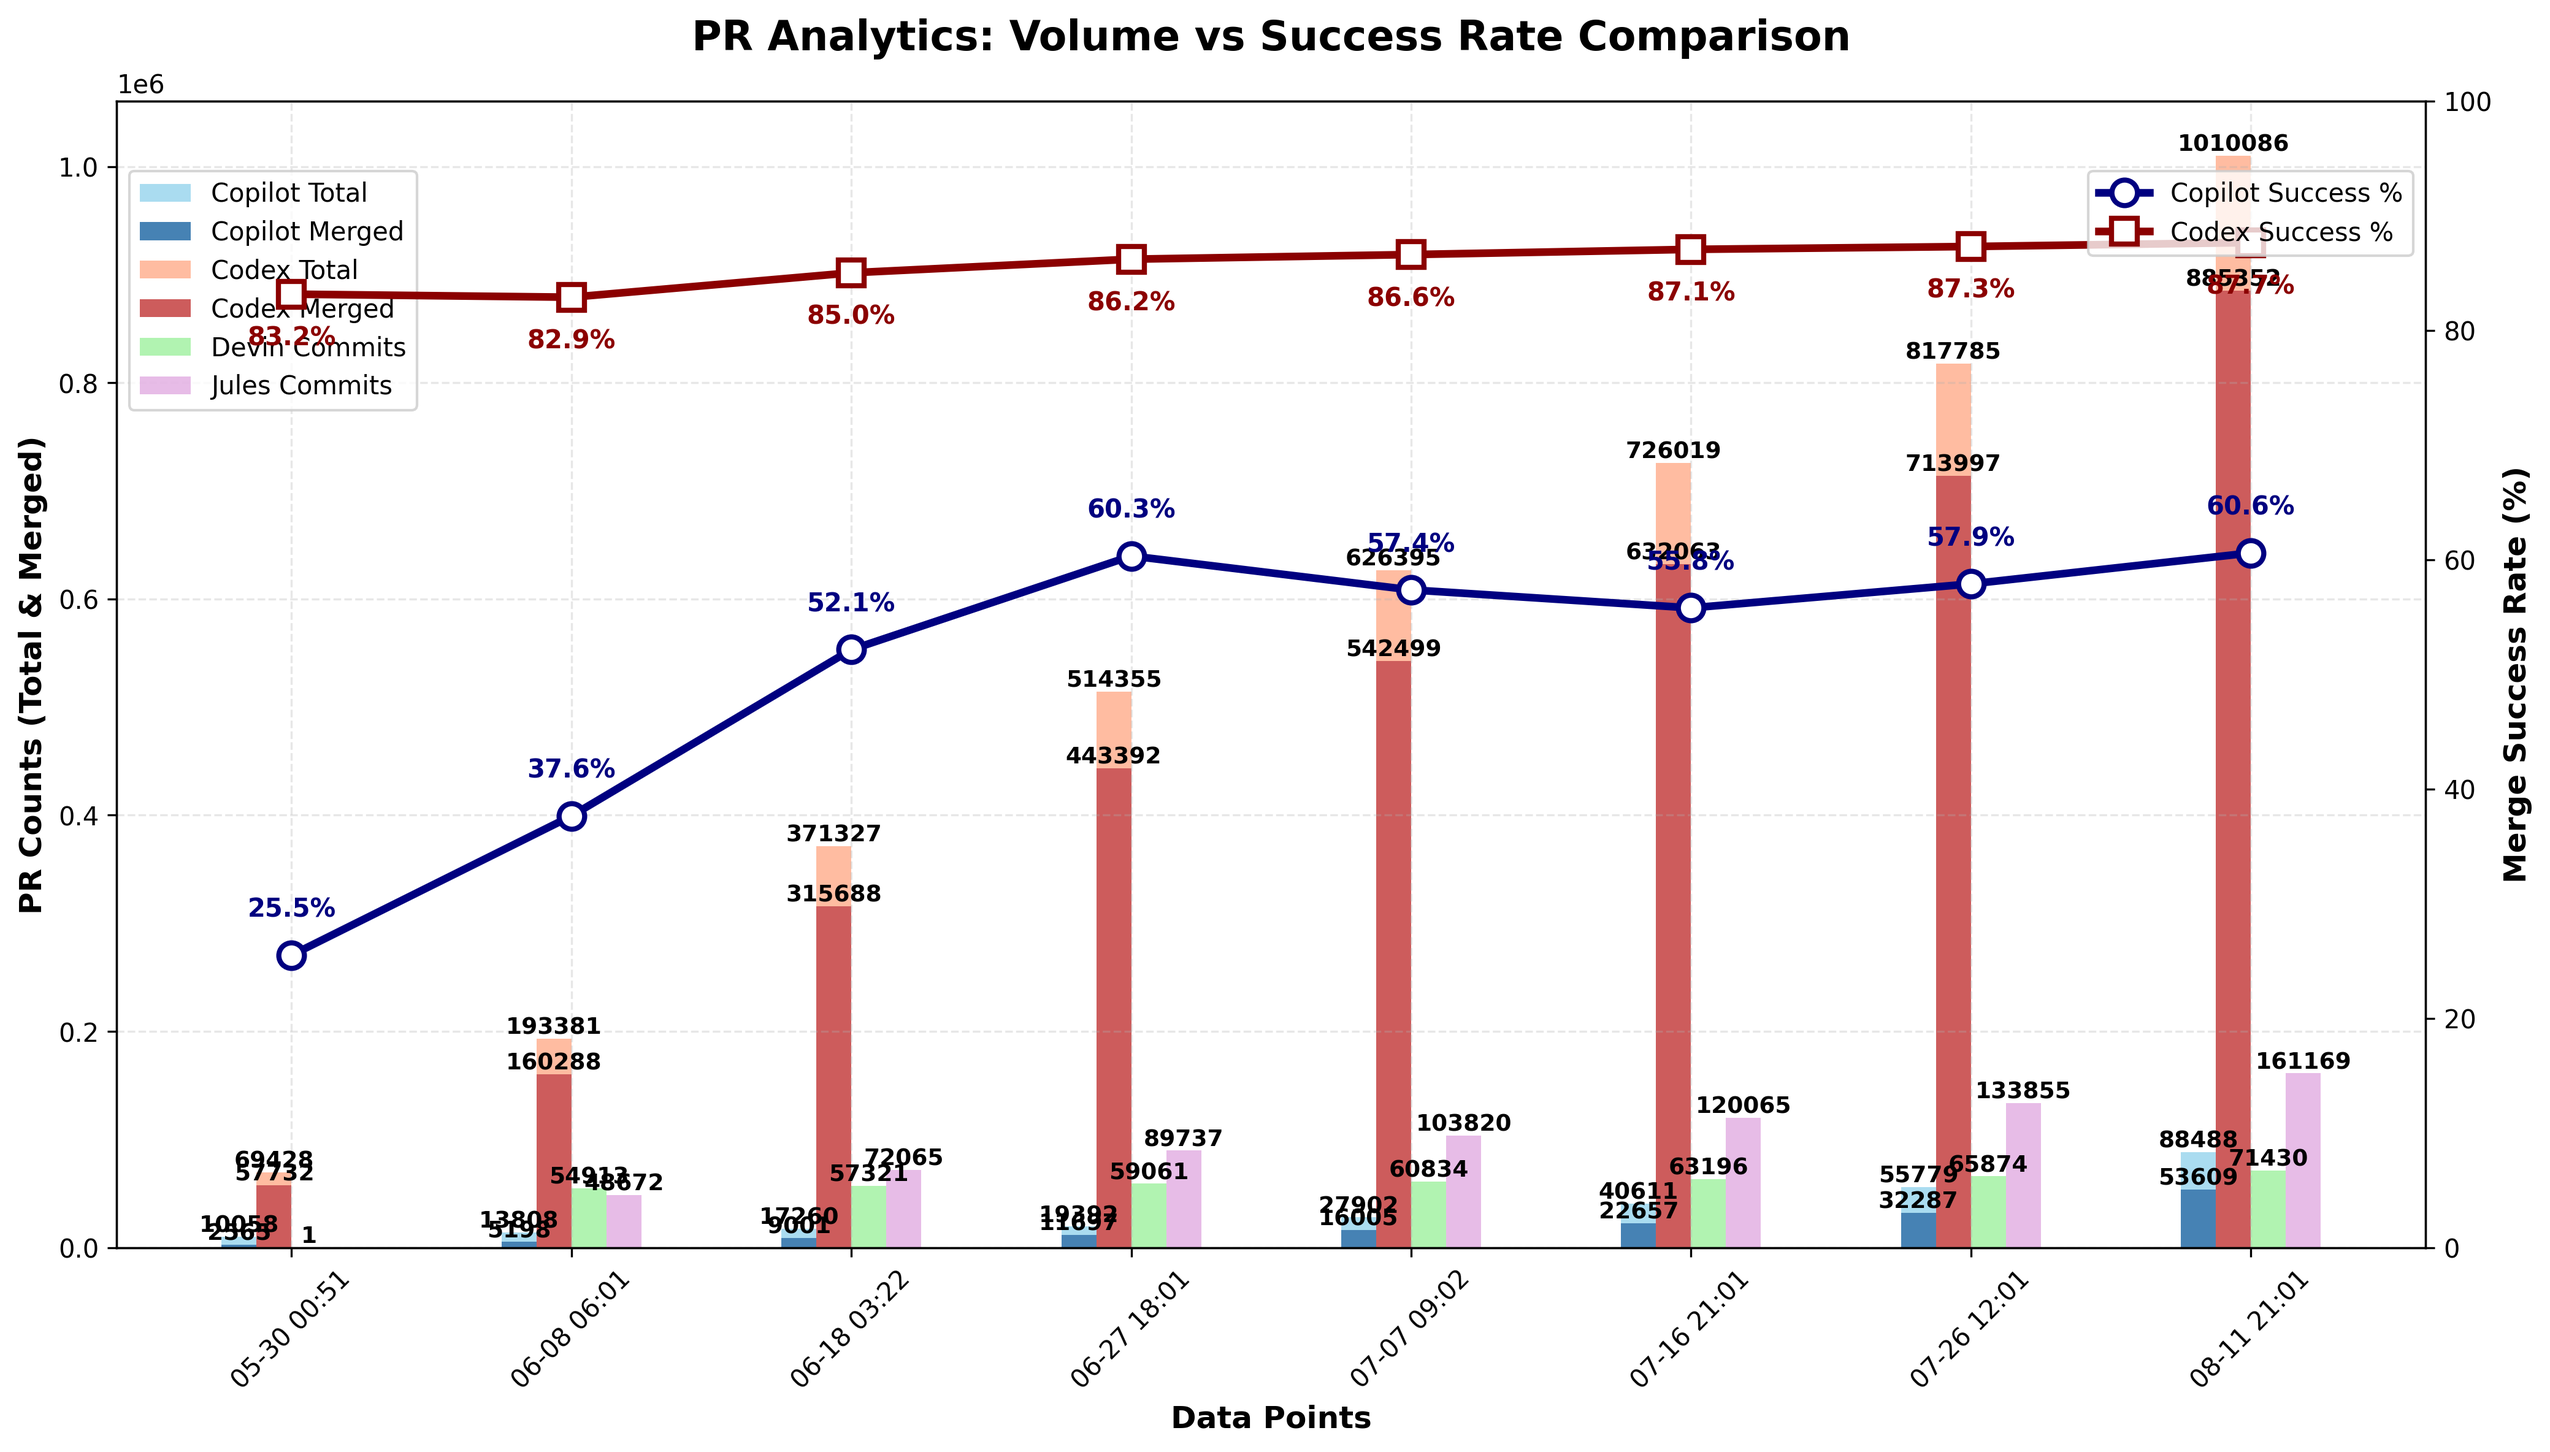
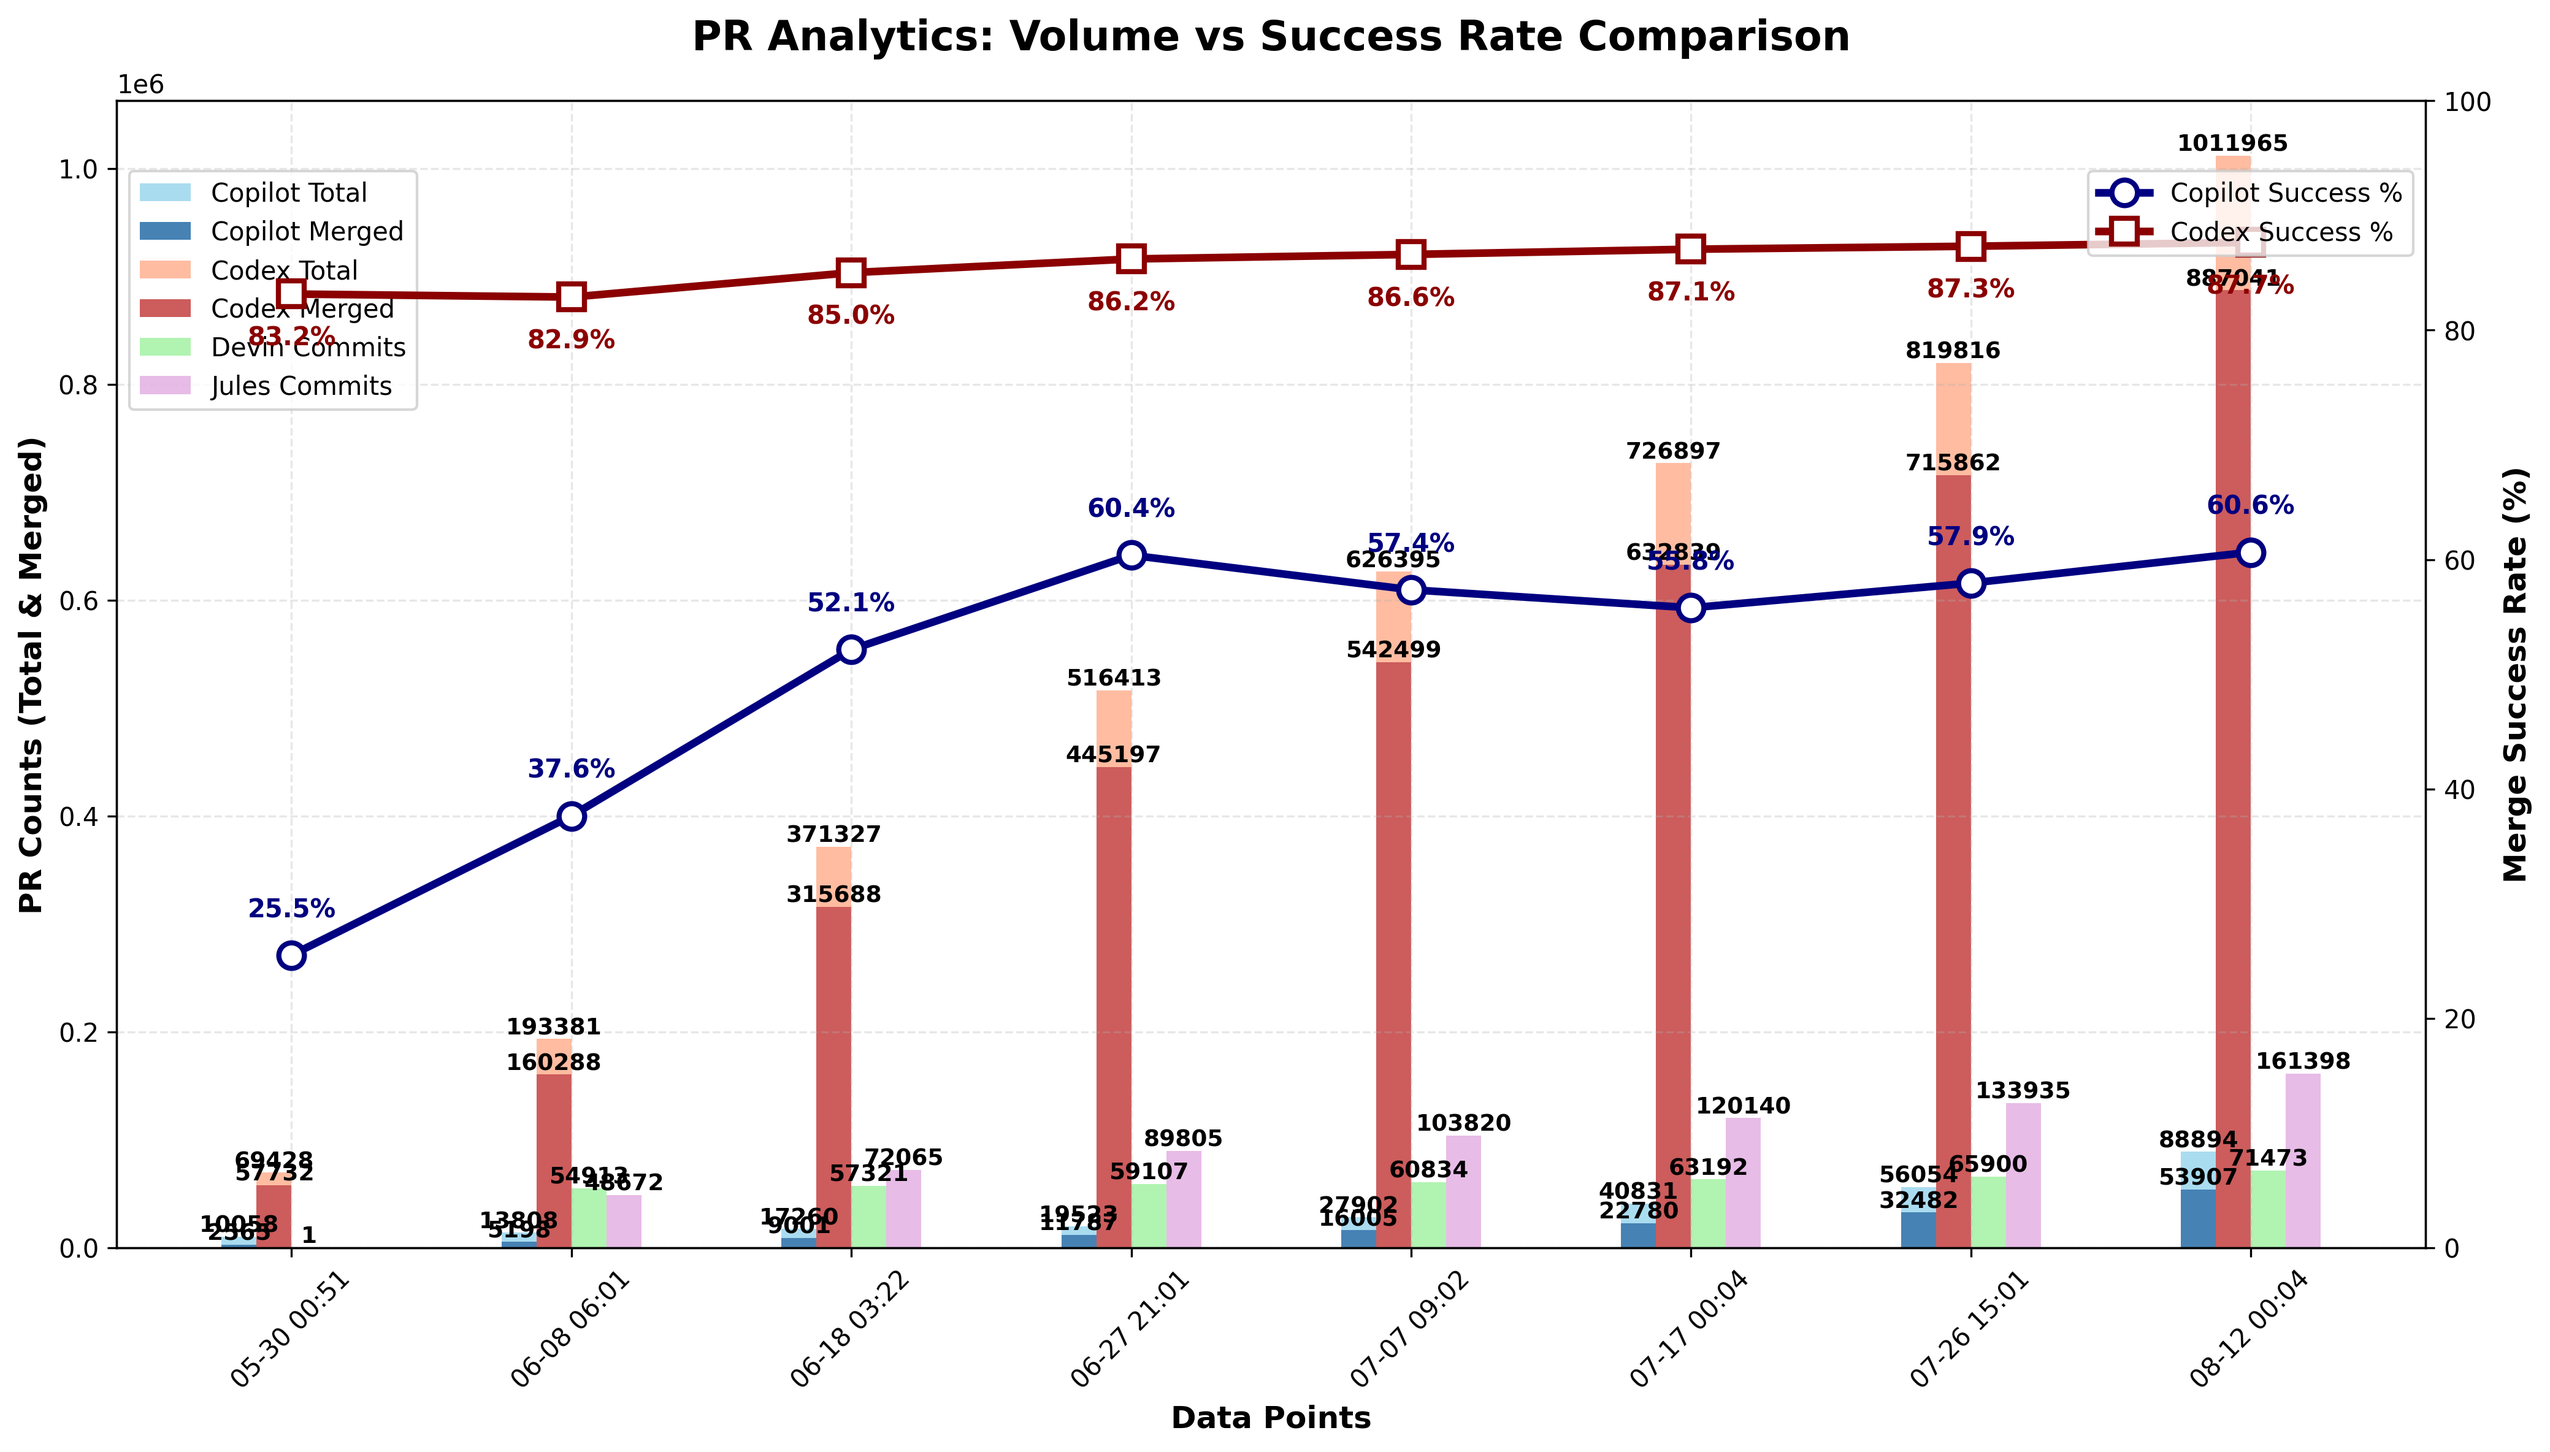
chore: update PR‑approval chart

diff --git a/docs/index.html b/docs/index.html
@@ -584,6 +584,7 @@
                         <td>N/A</td>
                         <td>N/A</td>
                         <td>N/A</td>
+                        <td>N/A</td>
                     </tr>
                     <tr>
                         <td>Codex</td>
@@ -1126,27 +1127,28 @@
                         <td>N/A</td>
                         <td>N/A</td>
                         <td>N/A</td>
+                        <td>N/A</td>
                     </tr>
                 <tr>
                         <td>Devin</td>
                         <td>N/A</td>
                         <td>N/A</td>
                         <td>N/A</td>
-                        <td>71,430</td>
+                        <td>71,473</td>
                     </tr>
                     <tr>
                         <td>Jules</td>
                         <td>N/A</td>
                         <td>N/A</td>
                         <td>N/A</td>
-                        <td>161,169</td>
+                        <td>161,398</td>
                     </tr>
                     </tbody>
             </table>
         </section>
 
         <footer>
-            <p>Last updated: <span id="last-updated">August 11, 2025 21:01 UTC</span></p>
+            <p>Last updated: <span id="last-updated">August 12, 2025 00:04 UTC</span></p>
             <p><a href="https://github.com/aavetis/ai-pr-watcher">View on GitHub</a></p>
         </footer>
     </div>

diff --git a/README.md b/README.md
@@ -19,7 +19,7 @@ Explore the GitHub search queries used:
 
 | Service | Total PRs | Merged PRs | Merge Rate | Total Commits |
 | ------- | --------- | ---------- | ---------- | ------------- |
-| Copilot | 88,488 | 53,609 | 60.58% | N/A           |
-| Codex   | 1,010,086 | 885,352 | 87.65% | N/A           |
-| Devin   | N/A       | N/A        | N/A        | 71,430 |
-| Jules   | N/A       | N/A        | N/A        | 161,169 |
+| Copilot | 88,894 | 53,907 | 60.64% | N/A           |
+| Codex   | 1,011,965 | 887,041 | 87.66% | N/A           |
+| Devin   | N/A       | N/A        | N/A        | 71,473 |
+| Jules   | N/A       | N/A        | N/A        | 161,398 |
